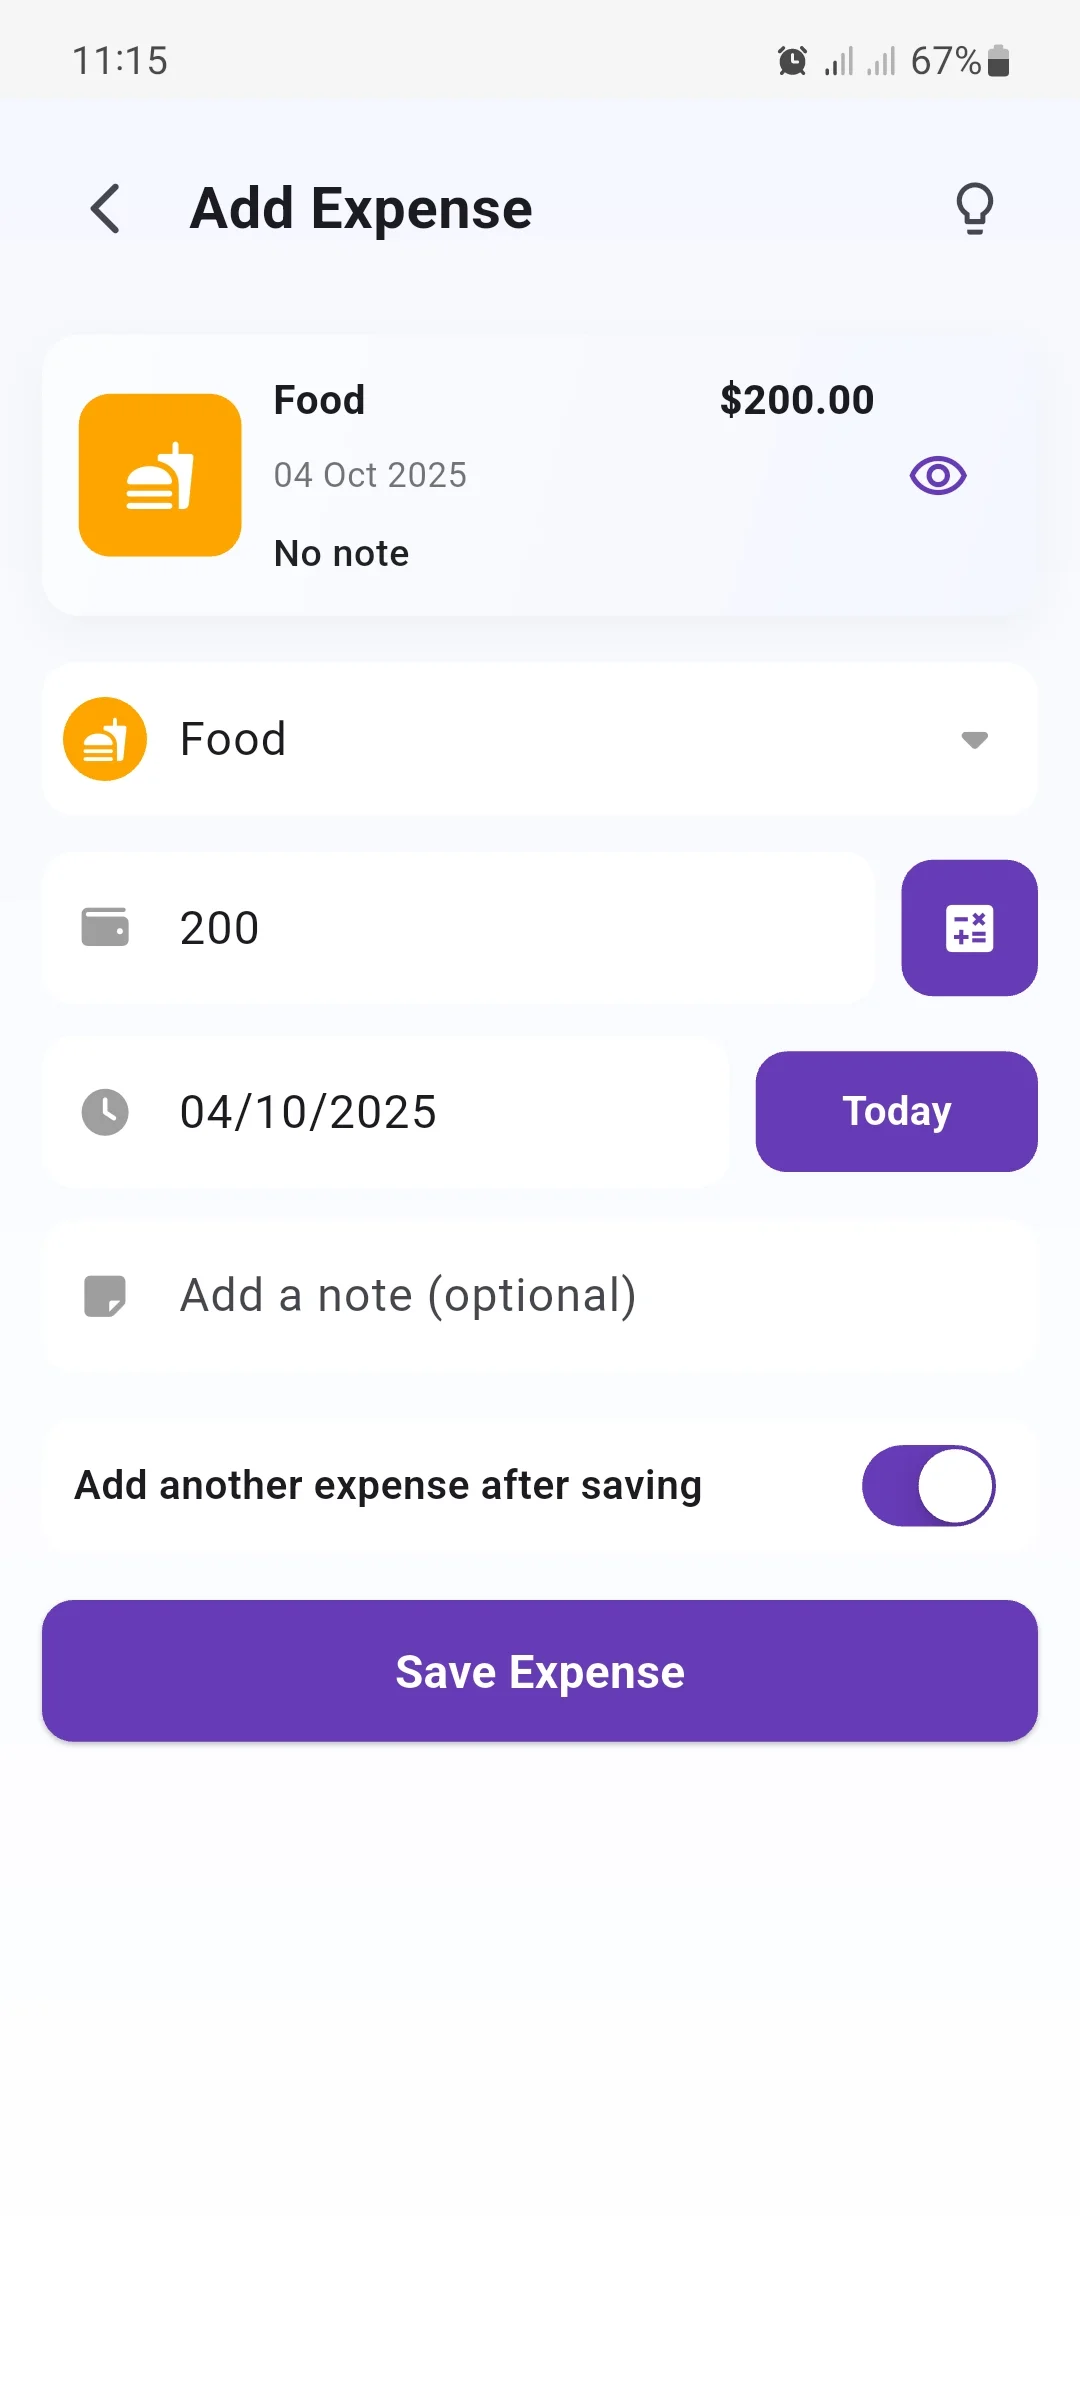
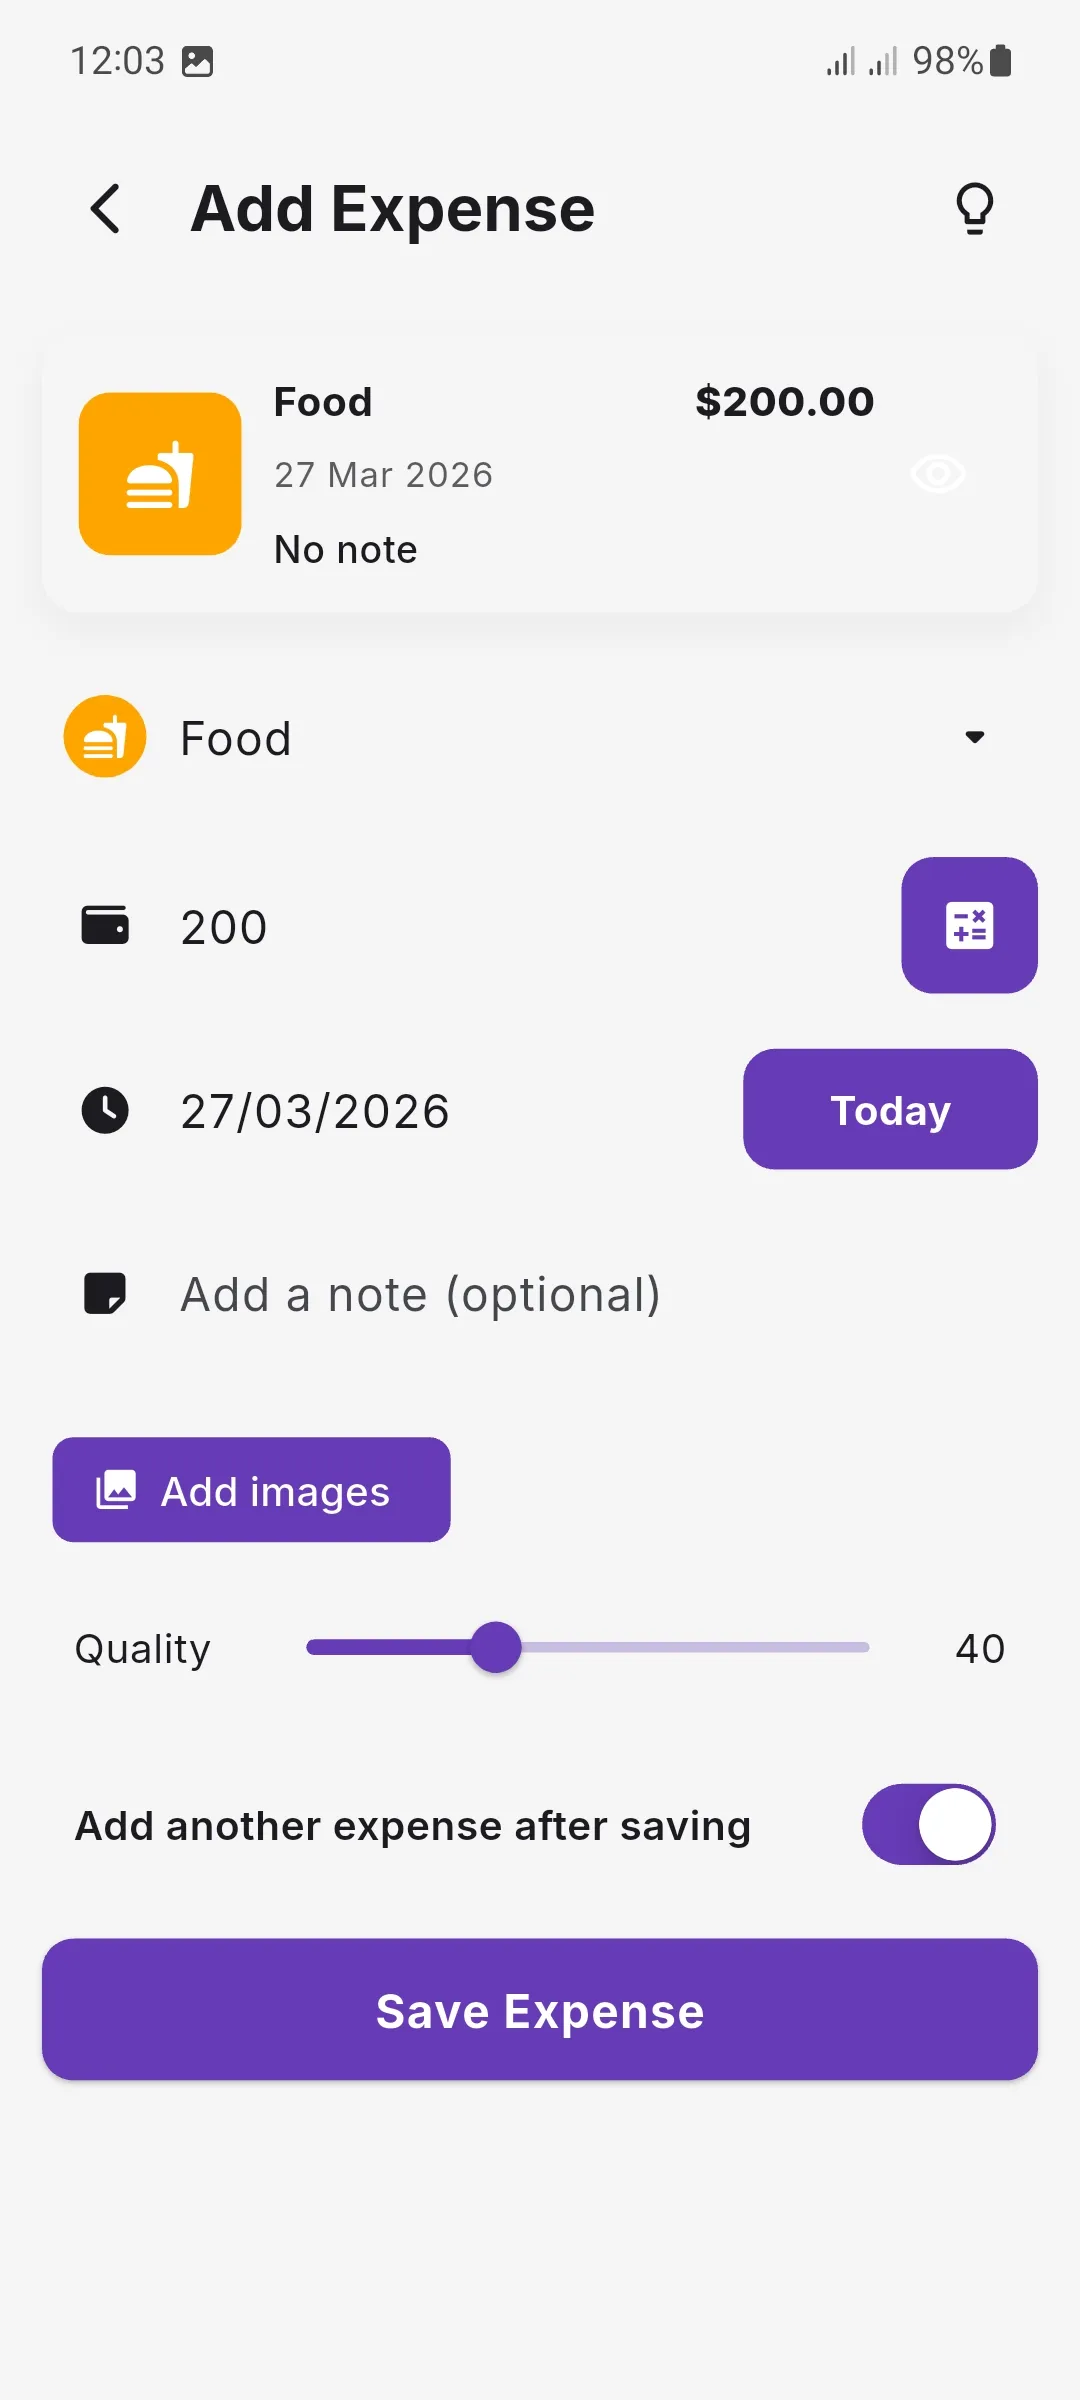
fix typo and update ss

diff --git a/index.html b/index.html
@@ -393,7 +393,7 @@
                                     <i class="bi bi-device-hdd"></i>
                                 </div>
                                 <h5 class="card-title">armeabi-v7a</h5>
-                                <p class="card-text small text-muted">Older ARM 32-bit devices.</p>ss
+                                <p class="card-text small text-muted">Older ARM 32-bit devices.</p>
                                 <a id="btn-armeabi" class="btn btn-download w-100" aria-label="Download armeabi-v7a APK"
                                     href="https://github.com/fahim-foysal-097/trackedify/releases/download/v1.9.0/trackedify-v1.9.0-armeabi-v7a.apk">Download
                                     armeabi-v7a</a>
